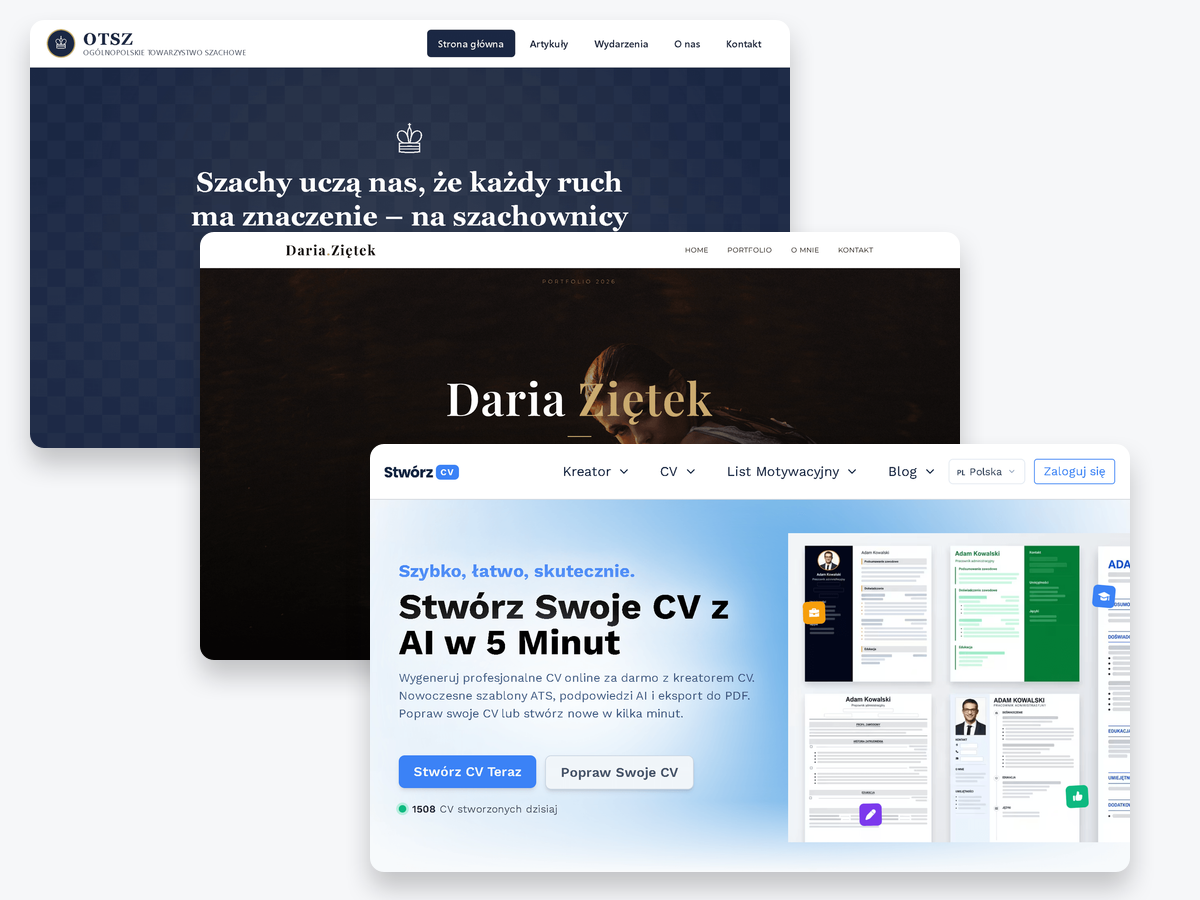
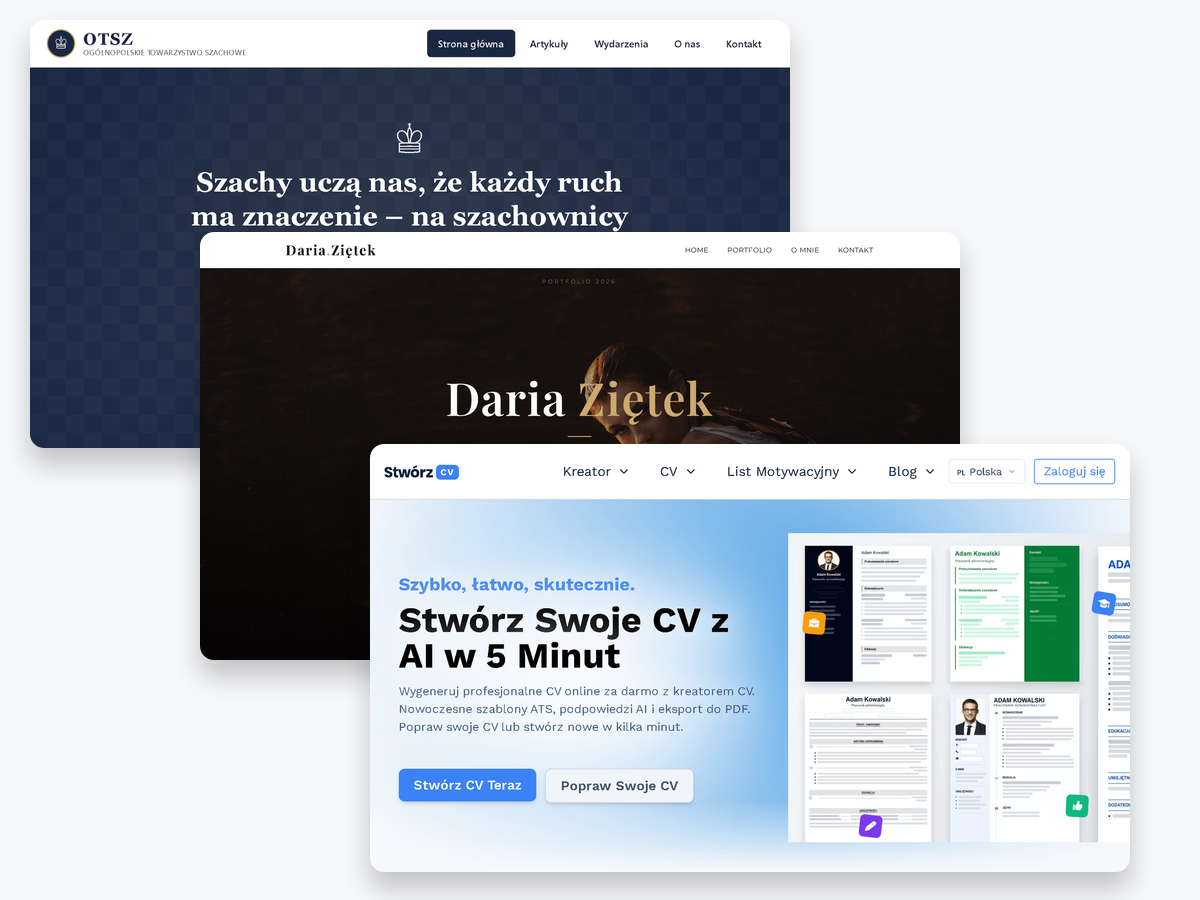
change sites url

diff --git a/data/projects.ts b/data/projects.ts
@@ -27,7 +27,7 @@ export const projects: Project[] = [
     goal: "Wizytówka zawodowa dla modelki — strona, którą wysyła się agencjom i fotografom zamiast folderu ze zdjęciami.",
     work: "Kinowy, ciemny layout ze złotym akcentem, pełnoekranowe hero, galeria sesji i sekcja kontaktowa. Zdjęcia ładowane progresywnie, żeby strona nie zwalniała.",
     result: "Kompletne portfolio pod jednym linkiem, czytelne również na telefonie — bez wysyłania ciężkich plików mailem.",
-    href: "https://daria-portfolio-six.vercel.app",
+    href: "https://www.dariazietek.pl",
   },
   {
     name: "OTSZ — Ogólnopolskie Towarzystwo Szachowe",

diff --git a/README.md b/README.md
@@ -85,7 +85,7 @@ sekcji, a nie w połowie tekstu:
 | Plik | Strona | Kadr |
 | --- | --- | --- |
 | `projekt-1.png` | stworzcv.com | viewport 1024×576 — header + cała niebieska sekcja hero, ani piksela dalej (przy 1024 px menu jest jeszcze w wersji desktopowej, a hero ma równo 16:9) |
-| `projekt-2.png` | daria-portfolio | viewport 1600×900 — hero na pełny ekran |
+| `projekt-2.png` | www.dariazietek.pl | viewport 1600×900 — hero na pełny ekran |
 | `projekt-3.png` | otsz.pl | viewport 1166×656 — kadr do końca granatowej sekcji hero |
 
 Na końcu skrypt składa jeszcze `public/hero.png` — kaskadę trzech okien z tych samych
